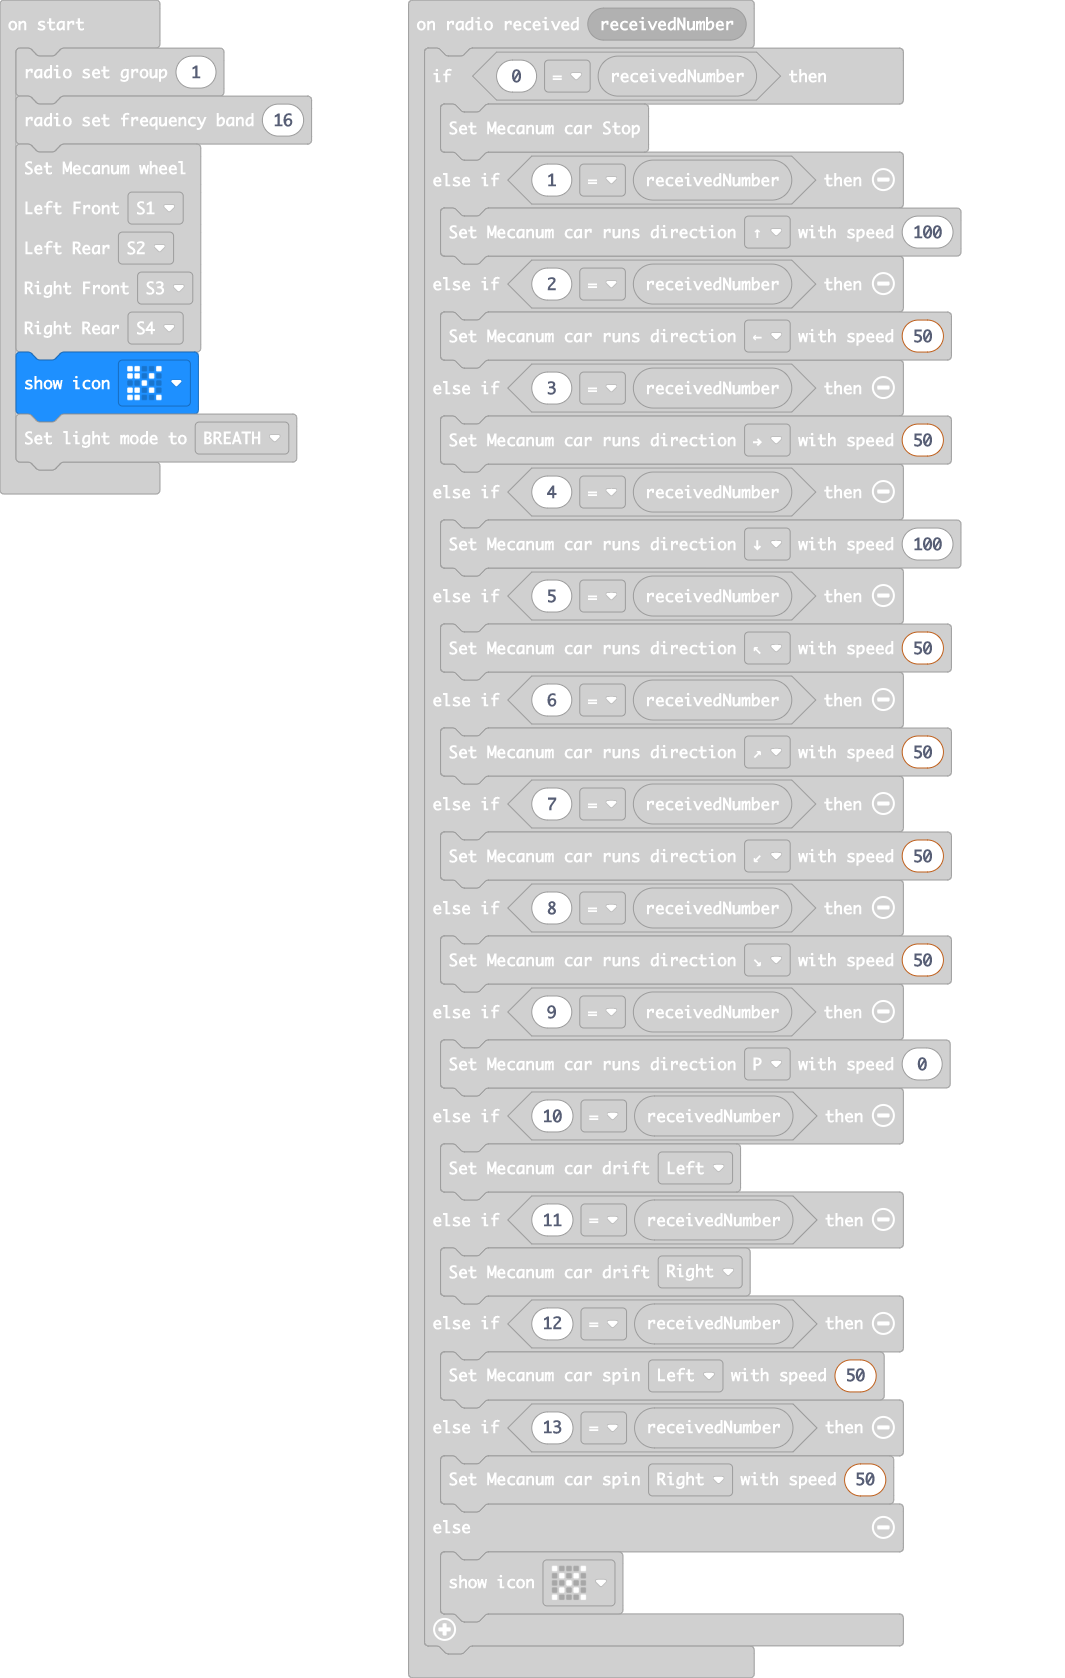
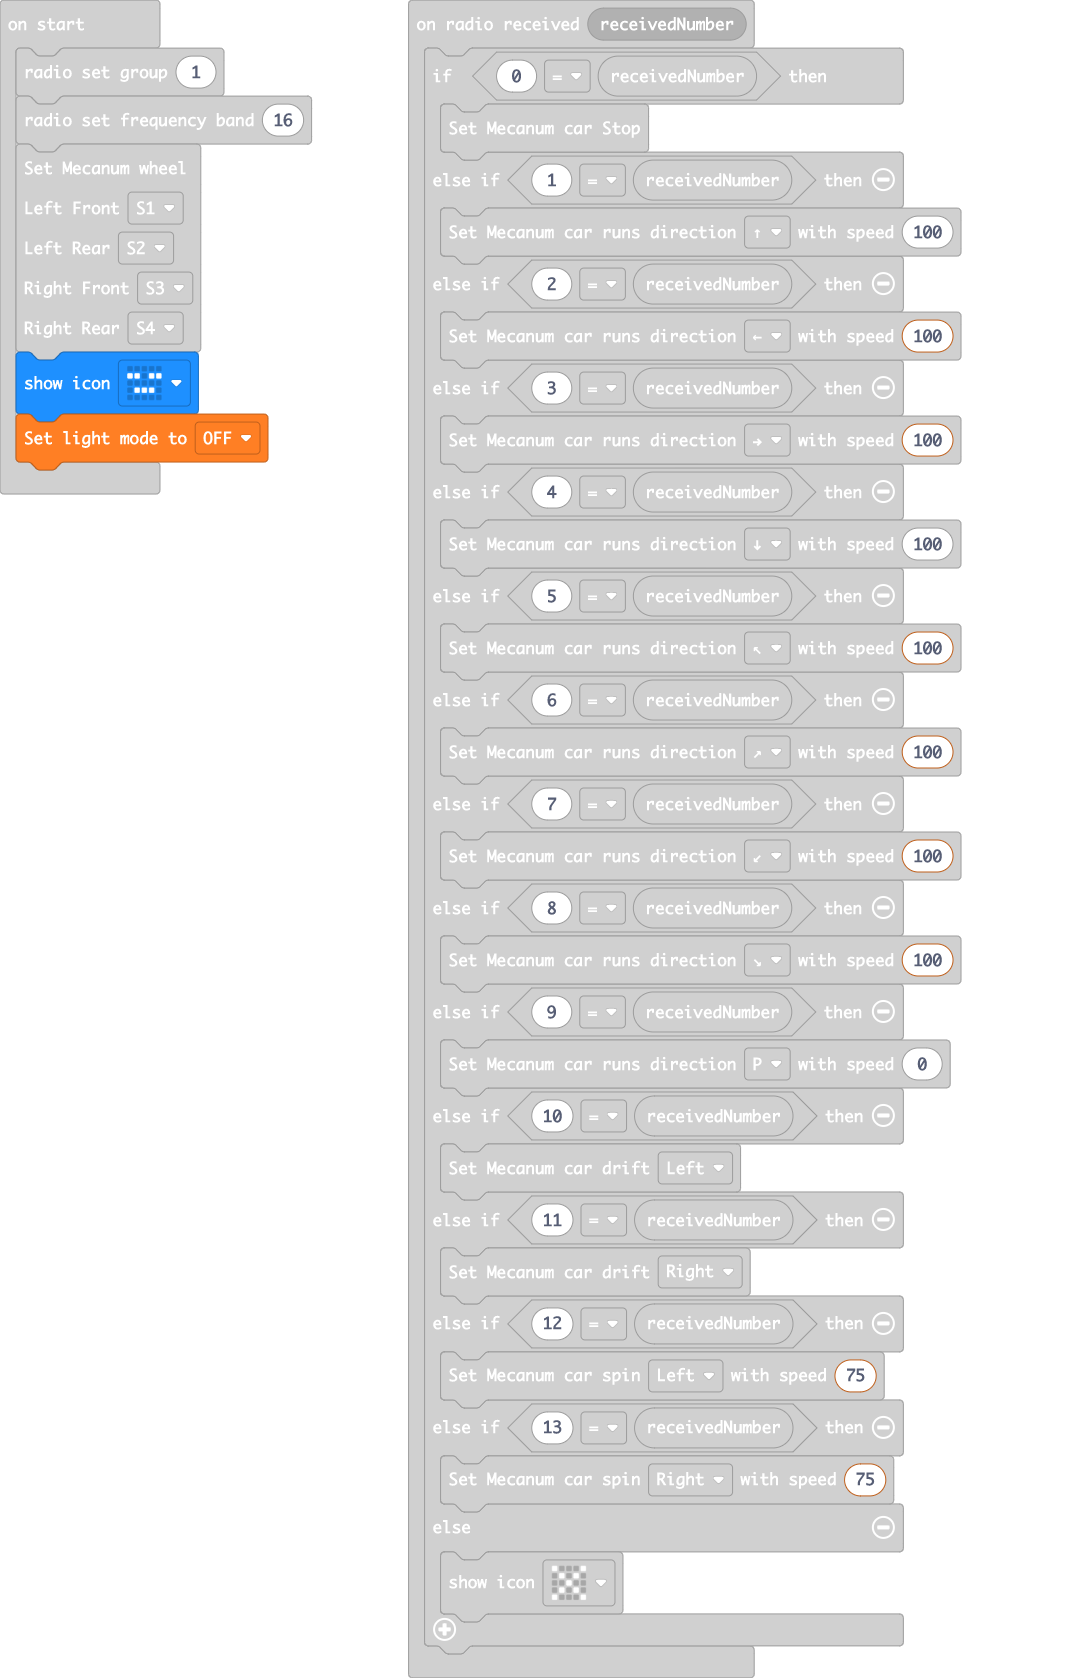
update speeds. -sync radio set group with remote

diff --git a/main.ts b/main.ts
@@ -4,19 +4,19 @@ radio.onReceivedNumber(function (receivedNumber) {
     } else if (1 == receivedNumber) {
         wuKong.mecanumRun(wuKong.RunList.Front, 100)
     } else if (2 == receivedNumber) {
-        wuKong.mecanumRun(wuKong.RunList.left, 50)
+        wuKong.mecanumRun(wuKong.RunList.left, 100)
     } else if (3 == receivedNumber) {
-        wuKong.mecanumRun(wuKong.RunList.right, 50)
+        wuKong.mecanumRun(wuKong.RunList.right, 100)
     } else if (4 == receivedNumber) {
         wuKong.mecanumRun(wuKong.RunList.rear, 100)
     } else if (5 == receivedNumber) {
-        wuKong.mecanumRun(wuKong.RunList.LeftFront, 50)
+        wuKong.mecanumRun(wuKong.RunList.LeftFront, 100)
     } else if (6 == receivedNumber) {
-        wuKong.mecanumRun(wuKong.RunList.RightFront, 50)
+        wuKong.mecanumRun(wuKong.RunList.RightFront, 100)
     } else if (7 == receivedNumber) {
-        wuKong.mecanumRun(wuKong.RunList.LeftRear, 50)
+        wuKong.mecanumRun(wuKong.RunList.LeftRear, 100)
     } else if (8 == receivedNumber) {
-        wuKong.mecanumRun(wuKong.RunList.RightRear, 50)
+        wuKong.mecanumRun(wuKong.RunList.RightRear, 100)
     } else if (9 == receivedNumber) {
         wuKong.mecanumRun(wuKong.RunList.stop, 0)
     } else if (10 == receivedNumber) {
@@ -24,9 +24,9 @@ radio.onReceivedNumber(function (receivedNumber) {
     } else if (11 == receivedNumber) {
         wuKong.mecanumDrift(wuKong.TurnList.Right)
     } else if (12 == receivedNumber) {
-        wuKong.mecanumSpin(wuKong.TurnList.Left, 50)
+        wuKong.mecanumSpin(wuKong.TurnList.Left, 75)
     } else if (13 == receivedNumber) {
-        wuKong.mecanumSpin(wuKong.TurnList.Right, 50)
+        wuKong.mecanumSpin(wuKong.TurnList.Right, 75)
     } else {
         basic.showIcon(IconNames.No)
     }
@@ -39,5 +39,5 @@ wuKong.ServoList.S2,
 wuKong.ServoList.S3,
 wuKong.ServoList.S4
 )
-basic.showIcon(IconNames.Scissors)
-wuKong.setLightMode(wuKong.LightMode.BREATH)
+basic.showIcon(IconNames.Asleep)
+wuKong.setLightMode(wuKong.LightMode.OFF)
